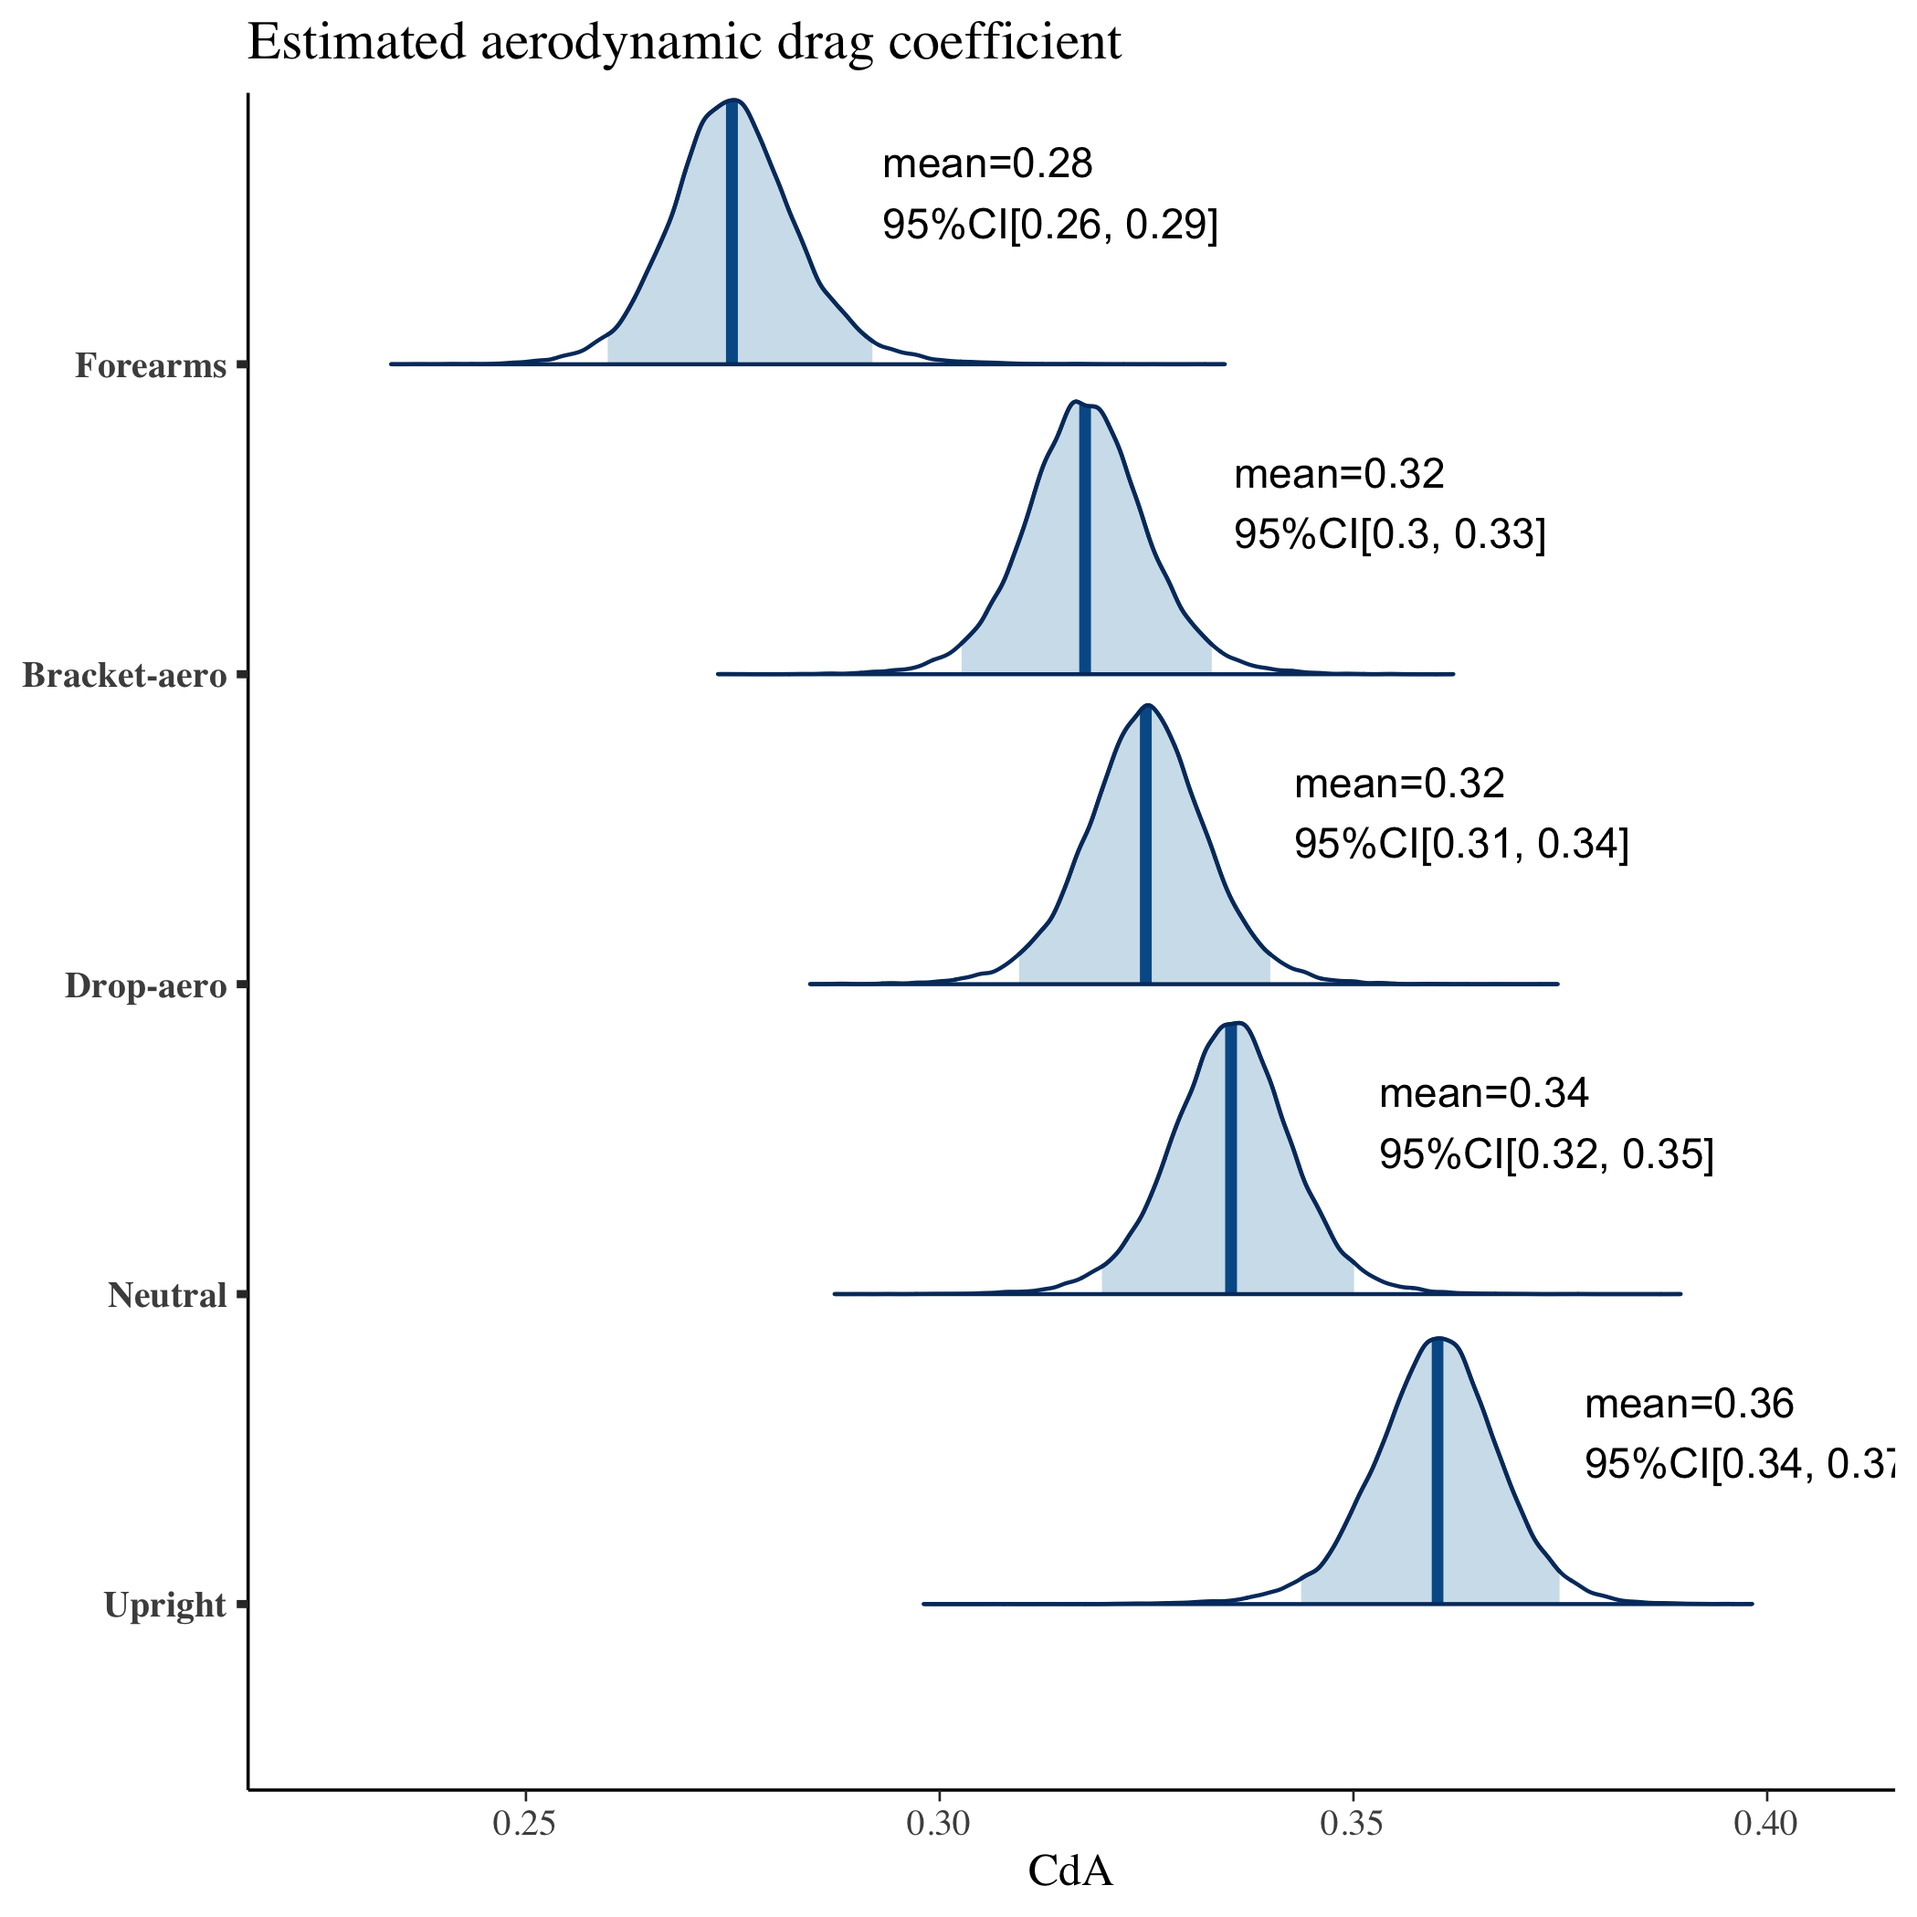
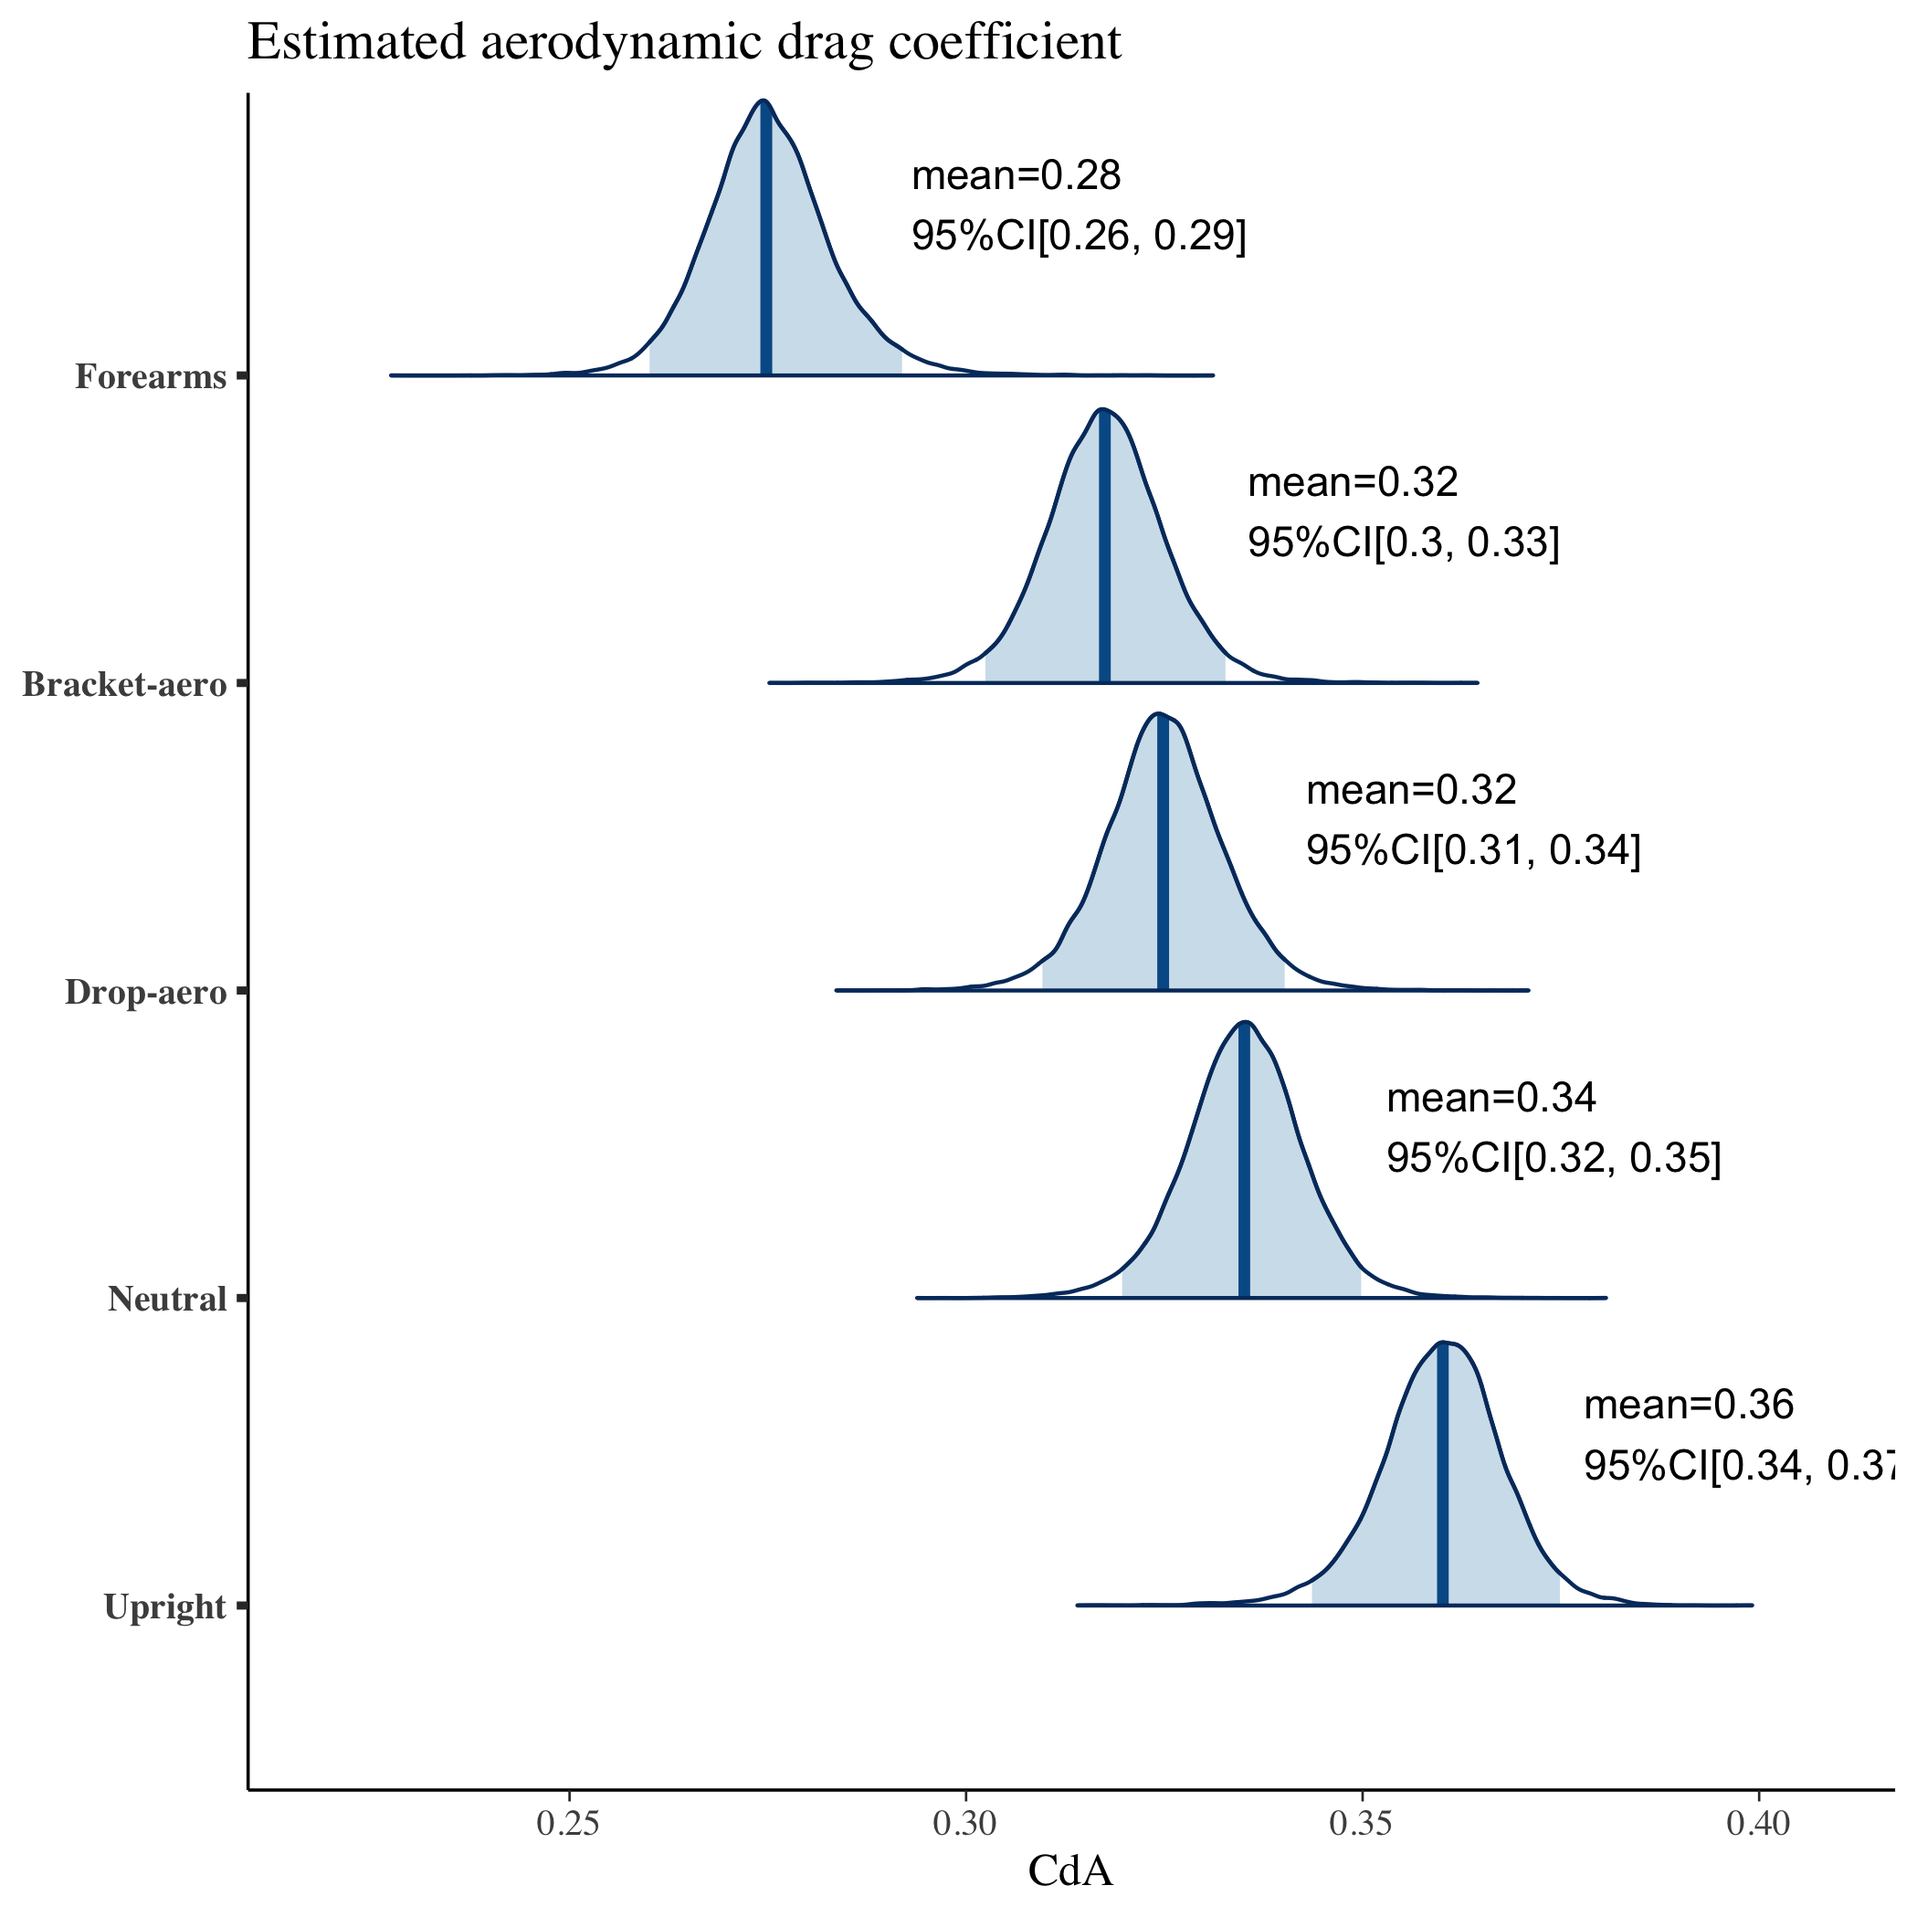
tune adapt_delta

diff --git a/README.md b/README.md
@@ -23,15 +23,15 @@ Rscript forearms-advantage.R
 
 |    | **Neutral** | **Bracket-aero** | **Drop-aero** | **Upright**  | **Forearms**  |
 |----|---------------------------------------|--------------------------------------------|-----------------------------------------|------------------------------------------|------------------------------------------|
-| **Model0**<br> mean 95%CI[min, max] | <br>0.35[0.24, 0.45] | <br>0.33[0.24, 0.42] | <br>0.33[0.20, 0.48] | <br>0.37[0.32, 0.41] | <br>0.30[0.21, 0.43] |
+| **Model0**<br> mean 95%CI[min, max] | <br>0.35[0.23, 0.49] | <br>0.34[0.23, 0.42] | <br>0.34[0.22, 0.47] | <br>0.37[0.32, 0.41] | <br>0.28[0.20, 0.38] |
 | **Model1**<br> mean 95%CI[min, max] | <br>0.34[0.32, 0.35] | <br>0.32[0.30, 0.33] | <br>0.33[0.31, 0.34] | <br>0.36[0.35, 0.38] | <br>0.27[0.26, 0.29] |
-| **Model2**<br> mean 95%CI[min, max] | <br>0.34[0.32, 0.35] | <br>0.32[0.30, 0.33]  | <br>0.33[0.31, 0.34] | <br>0.36[0.34, 0.39] | <br>0.28[0.26, 0.29] |
+| **Model2**<br> mean 95%CI[min, max] | <br>0.34[0.32, 0.35] | <br>0.32[0.30, 0.33] | <br>0.33[0.31, 0.34] | <br>0.36[0.34, 0.38] | <br>0.28[0.26, 0.29] |
 
-|                                     |  Advantage Drop-aero    |  Advantage Forearms   |
-|-------------------------------------|-------------------------|-----------------------|
-| **Model0**<br> mean 95%CI[min, max] |  <br>-0.01[-0.20, 0.18] | <br>0.04[-0.16, 0.18] |
-| **Model1**<br> mean 95%CI[min, max] |  <br>-0.01[-0.03, 0.01] | <br>0.04[0.02, 0.07]  |
-| **Model2**<br> mean 95%CI[min, max] | <br>-0.01[-0.03, 0.01] |  <br>0.04[0.02, 0.06]  |
+|                                     |  Advantage Drop-aero   | Advantage Forearms    |
+|-------------------------------------|------------------------|-----------------------|
+| **Model0**<br> mean 95%CI[min, max] | <br>0.01[-0.20, 0.18]  | <br>0.06[-0.12, 0.20] |
+| **Model1**<br> mean 95%CI[min, max] | <br>-0.01[-0.03, 0.01] | <br>0.04[0.02, 0.07]  |
+| **Model2**<br> mean 95%CI[min, max] | <br>-0.01[-0.03, 0.01] | <br>0.04[0.02, 0.06]  |
 
 - Figures have the images with CdA per position, defference between forearms-on-bars and UCI legal position.
 
